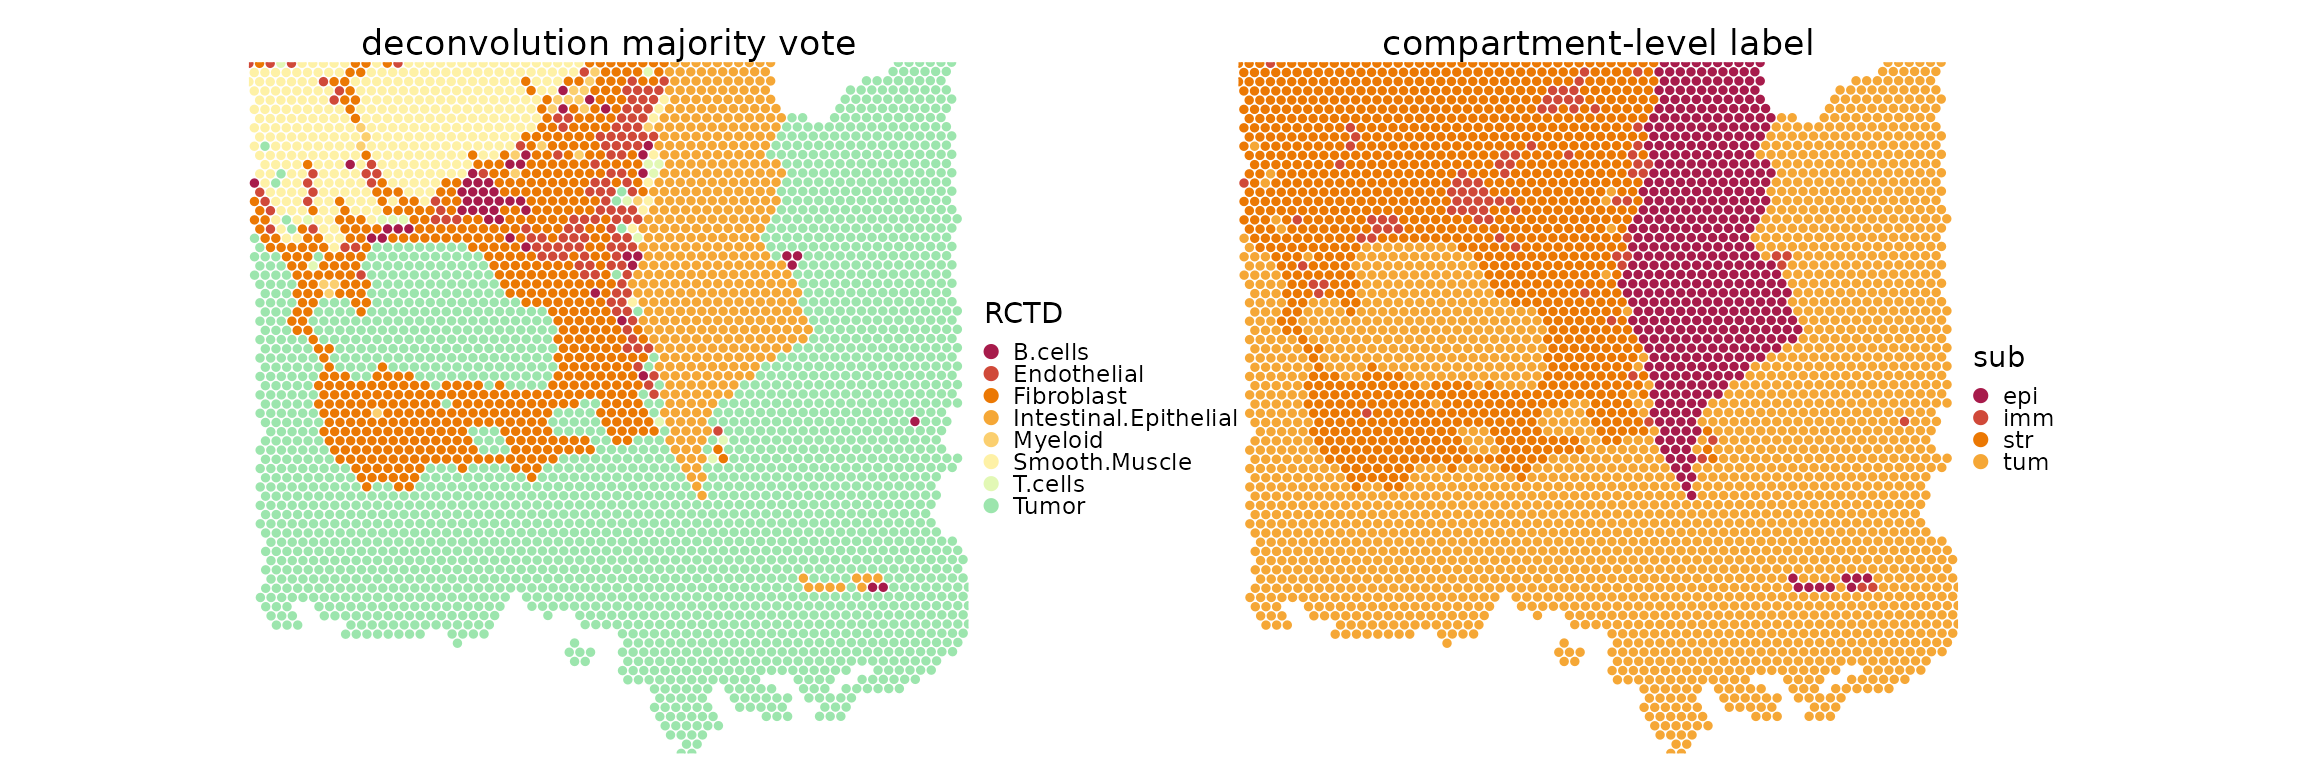
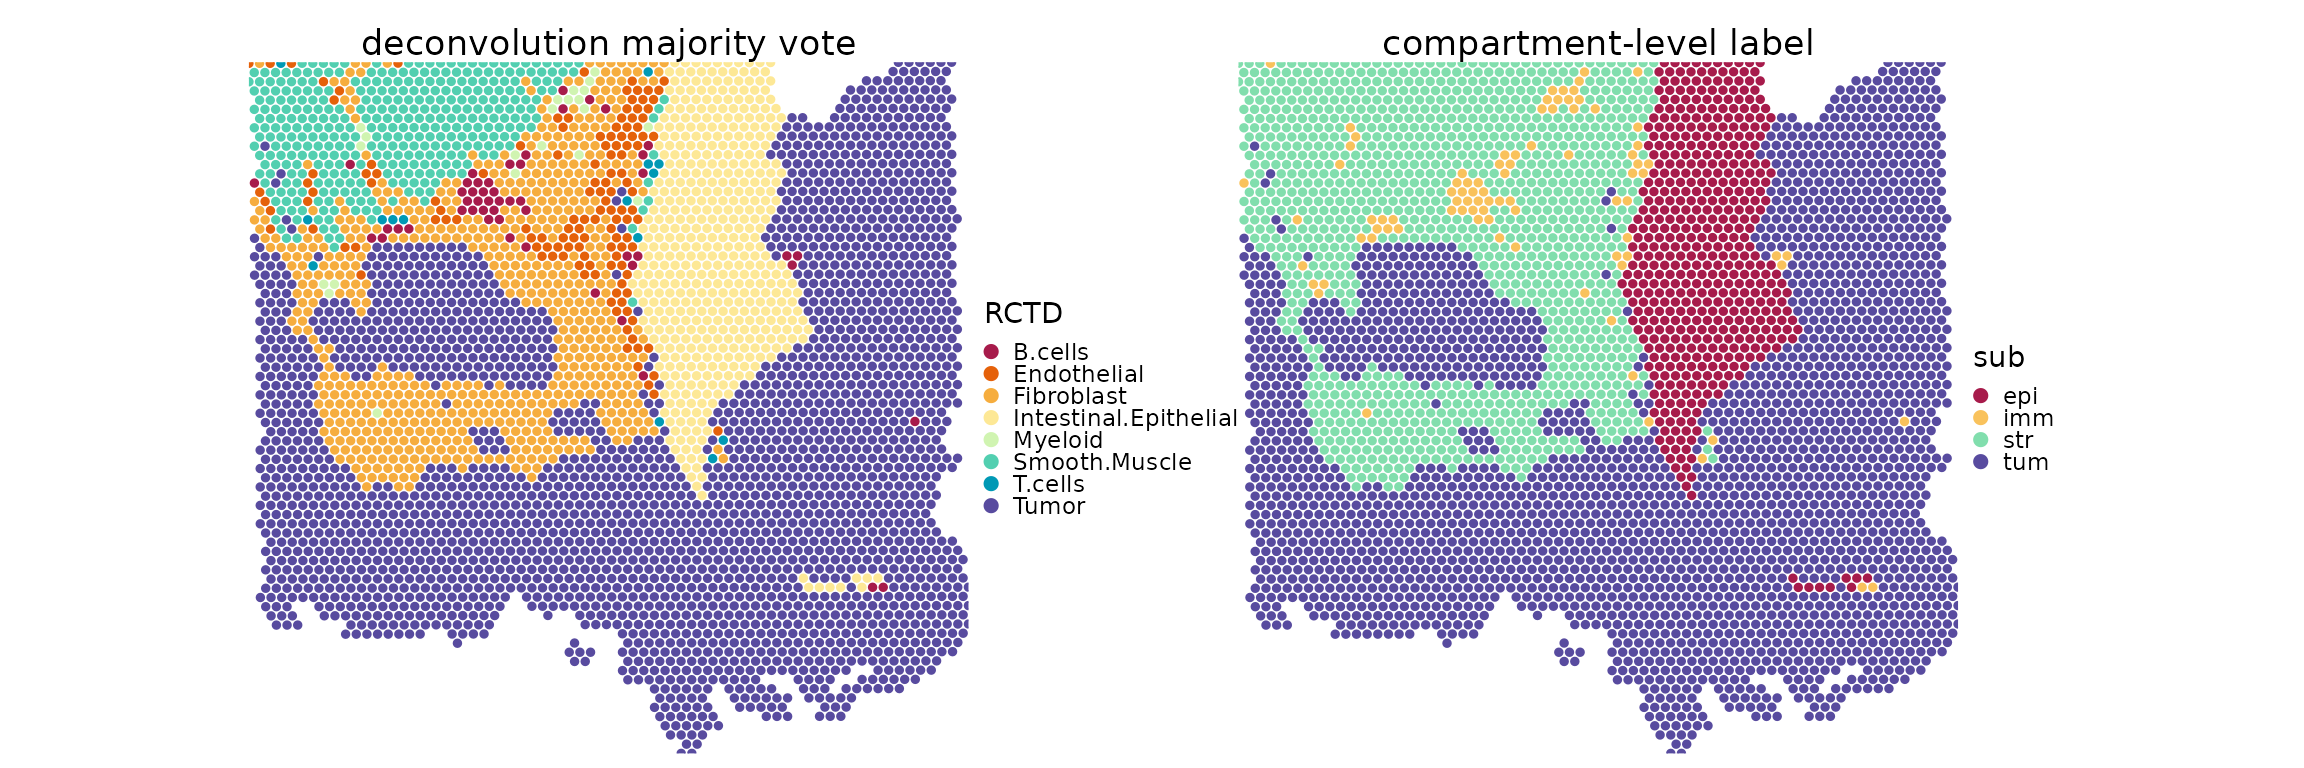
Deploying to gh-pages from @ HelenaLC/miro@dd3390ca645e7e692ef1b592cb17e0738d20fb5e 🚀

diff --git a/articles/miro.html b/articles/miro.html
@@ -124,8 +124,8 @@ comprising a single tissue section from a colorectal cancer biopsy <span class="
 <span>    <span class="va">lg</span> <span class="op">&lt;-</span> <span class="kw">if</span> <span class="op">(</span><span class="fu"><a href="https://rdrr.io/r/base/grep.html" class="external-link">grepl</a></span><span class="op">(</span><span class="st">"#"</span>, <span class="va">df</span><span class="op">[[</span><span class="va">i</span><span class="op">]</span><span class="op">]</span><span class="op">[</span><span class="fl">1</span><span class="op">]</span><span class="op">)</span><span class="op">)</span> </span>
 <span>        <span class="fu"><a href="https://ggplot2.tidyverse.org/reference/scale_identity.html" class="external-link">scale_color_identity</a></span><span class="op">(</span><span class="op">)</span> <span class="kw">else</span></span>
 <span>        <span class="kw"><a href="https://rdrr.io/r/base/switch.html" class="external-link">switch</a></span><span class="op">(</span><span class="fu"><a href="https://ggplot2.tidyverse.org/reference/scale_type.html" class="external-link">scale_type</a></span><span class="op">(</span><span class="va">df</span><span class="op">[[</span><span class="va">i</span><span class="op">]</span><span class="op">]</span><span class="op">)</span>,</span>
-<span>            discrete<span class="op">=</span><span class="fu"><a href="https://ggplot2.tidyverse.org/reference/scale_manual.html" class="external-link">scale_color_manual</a></span><span class="op">(</span>values<span class="op">=</span><span class="fu"><a href="https://rdrr.io/r/grDevices/palettes.html" class="external-link">hcl.colors</a></span><span class="op">(</span><span class="fl">12</span>, <span class="st">"Spectral"</span><span class="op">)</span><span class="op">)</span>,</span>
-<span>            continuous<span class="op">=</span><span class="fu"><a href="https://ggplot2.tidyverse.org/reference/scale_gradient.html" class="external-link">scale_color_gradientn</a></span><span class="op">(</span>colors<span class="op">=</span><span class="fu"><a href="https://rdrr.io/r/base/rev.html" class="external-link">rev</a></span><span class="op">(</span><span class="fu"><a href="https://rdrr.io/r/grDevices/palettes.html" class="external-link">hcl.colors</a></span><span class="op">(</span><span class="fl">9</span>, <span class="st">"Batlow"</span><span class="op">)</span><span class="op">)</span><span class="op">)</span><span class="op">)</span></span>
+<span>            continuous<span class="op">=</span><span class="fu"><a href="https://ggplot2.tidyverse.org/reference/scale_gradient.html" class="external-link">scale_color_gradientn</a></span><span class="op">(</span>colors<span class="op">=</span><span class="fu"><a href="https://rdrr.io/r/base/rev.html" class="external-link">rev</a></span><span class="op">(</span><span class="fu"><a href="https://rdrr.io/r/grDevices/palettes.html" class="external-link">hcl.colors</a></span><span class="op">(</span><span class="fl">9</span>, <span class="st">"Batlow"</span><span class="op">)</span><span class="op">)</span><span class="op">)</span>,</span>
+<span>            discrete<span class="op">=</span><span class="fu"><a href="https://ggplot2.tidyverse.org/reference/scale_manual.html" class="external-link">scale_color_manual</a></span><span class="op">(</span>values<span class="op">=</span><span class="fu"><a href="https://rdrr.io/r/grDevices/palettes.html" class="external-link">hcl.colors</a></span><span class="op">(</span><span class="fu"><a href="https://rdrr.io/r/base/length.html" class="external-link">length</a></span><span class="op">(</span><span class="fu"><a href="https://rdrr.io/pkg/BiocGenerics/man/unique.html" class="external-link">unique</a></span><span class="op">(</span><span class="va">df</span><span class="op">[[</span><span class="va">i</span><span class="op">]</span><span class="op">]</span><span class="op">)</span><span class="op">)</span>, <span class="st">"Spectral"</span><span class="op">)</span><span class="op">)</span><span class="op">)</span></span>
 <span>    <span class="fu"><a href="https://ggplot2.tidyverse.org/reference/ggplot.html" class="external-link">ggplot</a></span><span class="op">(</span><span class="va">df</span>, <span class="fu"><a href="https://ggplot2.tidyverse.org/reference/aes.html" class="external-link">aes</a></span><span class="op">(</span><span class="va">.data</span><span class="op">[[</span><span class="va">x</span><span class="op">]</span><span class="op">]</span>, <span class="va">.data</span><span class="op">[[</span><span class="va">y</span><span class="op">]</span><span class="op">]</span>, col<span class="op">=</span><span class="va">.data</span><span class="op">[[</span><span class="va">i</span><span class="op">]</span><span class="op">]</span><span class="op">)</span><span class="op">)</span> <span class="op">+</span></span>
 <span>        <span class="fu"><a href="https://rdrr.io/r/base/do.call.html" class="external-link">do.call</a></span><span class="op">(</span><span class="va">geom_point</span>, <span class="va">dots</span><span class="op">)</span> <span class="op">+</span> <span class="va">lg</span> <span class="op">+</span></span>
 <span>        <span class="fu"><a href="https://ggplot2.tidyverse.org/reference/coord_fixed.html" class="external-link">coord_equal</a></span><span class="op">(</span>expand<span class="op">=</span><span class="cn">FALSE</span><span class="op">)</span> <span class="op">+</span> </span>
